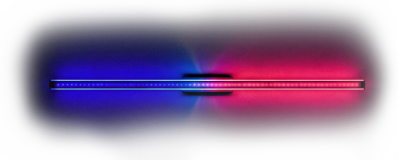
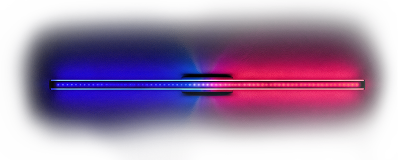
index fix

Changed region(s): [[0.1165, 0.5, 0.8738, 0.5312]]

diff --git a/index.html b/index.html
@@ -472,12 +472,9 @@
                     <li class="item-list__item gradient-border gradient-border--s2">
                         <a href="item-page.html" class="item-list__item-link">
                             <div class="item-list__item-mark-wrp">
-                                <div class="item-list__item-mark-item item-list__item-mark-item--black">
-                                    рекомендуємо
-                                </div>
-                                <!-- <div class="item-list__item-mark-item item-list__item-mark-item--white">
+                                <div class="item-list__item-mark-item item-list__item-mark-item--white">
                                     надійна
-                                </div> -->
+                                </div>
                             </div>
                             <div class="item-list__item-img img-wrp">
                                 <img src="imges/items/item-img.png" alt="main img">
@@ -497,20 +494,20 @@
                                         <img src="imges/items/icon-star.svg" alt="icon">
                                     </div>
                                     <div class="item-list__item-rating-star-icon img-wrp">
-                                        <img src="imges/items/icon-star.svg" alt="icon">
+                                        <img src="imges/items/icon-star-05.svg" alt="icon">
                                     </div>
                                 </div>
 
                                 <div class="item-list__item-rating-text">
                                     рейтинг
-                                    <span class="item-list__item-rating-num">5.0</span>
+                                    <span class="item-list__item-rating-num">4.5</span>
                                 </div>
                             </div>
 
                             <div class="item-list__item-title-wrp">
-                                <div class="item-list__item-icon img-wrp">
+                                <!-- <div class="item-list__item-icon img-wrp">
                                     <img src="imges/items/icon-ok.svg" alt="icon">
-                                </div>
+                                </div> -->
                                 <div class="item-list__item-title">Apelsin Studio</div>
                             </div>
 
@@ -557,14 +554,11 @@
                                     <div class="item-list__item-rating-star-icon img-wrp">
                                         <img src="imges/items/icon-star.svg" alt="icon">
                                     </div>
-                                    <div class="item-list__item-rating-star-icon img-wrp">
-                                        <img src="imges/items/icon-star.svg" alt="icon">
-                                    </div>
                                 </div>
 
                                 <div class="item-list__item-rating-text">
                                     рейтинг
-                                    <span class="item-list__item-rating-num">5.0</span>
+                                    <span class="item-list__item-rating-num">4.0</span>
                                 </div>
                             </div>
 

diff --git a/scss/pages/_home.scss b/scss/pages/_home.scss
@@ -8,7 +8,21 @@
     background-image: url('../../imges/fs-bg.png');
     background-position: center;
     background-size: contain;
-    background-repeat: repeat-x;
+    background-repeat: no-repeat;
+    position: relative;
+
+    // .fs-wrp::before
+    &::before {
+        content: '';
+        width: 1920px;
+        height: 360px;
+        position: absolute;
+        left: 50%;
+        transform: translate(-50%) rotate(-180deg);
+        top: 0;
+        background: linear-gradient(180deg, rgba(5, 7, 40, 0) 0%, #050728 100%);
+        z-index: 1;        
+    }
 }
 
 .fs {
@@ -17,6 +31,19 @@
     display: flex;
     flex-direction: column;
     align-items: center;
+
+    // .fs::after
+    &::after {
+        content: '';
+        width: 1920px;
+        height: 300px;
+        position: absolute;
+        left: 50%;
+        transform: translate(-50%);
+        bottom: -4px;
+        background: linear-gradient(0deg, #050728 0%, rgba(5, 7, 40, 0) 100%);
+        z-index: 2;
+    }
 
     // .fs__container
     &__container {
@@ -32,6 +59,7 @@
         justify-content: center;
         position: relative;
         // margin-bottom: 50px;
+        z-index: 2;
     }
 
     // .fs__title-h1
@@ -330,6 +358,8 @@
 
 .s1 {
     margin-bottom: 60px;
+    position: relative;
+    z-index: 2;
 
     // .s1__container
     &__container {
@@ -606,6 +636,7 @@
         top: -84px;
         left: 50%;
         transform: translateX(-50%);
+        mix-blend-mode: plus-lighter;
     }
 
     // .footer__main-logo
@@ -770,21 +801,22 @@
         height: 360px;
         bottom: -20px;
         z-index: -1;
+        overflow: hidden;
 
         // .footer__decoration--left
         &--left {
             left: -300px;
-            filter: blur(360px);
+            filter: blur(200px);
             background: var(--dop-1);
-            opacity: 0.2;
+            opacity: 0.25;
         }
 
         // .footer__decoration--right
         &--right {
             right: -300px;
-            filter: blur(360px);
+            filter: blur(200px);
             background: var(--dop-2);
-            opacity: 0.2;
+            opacity: 0.25;
         }
     }
 }

diff --git a/css/main.css b/css/main.css
@@ -522,6 +522,8 @@ a {
 .header {
   padding-top: 23px;
   padding-bottom: 40px;
+  position: relative;
+  z-index: 2;
 }
 .header__container {
   justify-content: space-between;
@@ -1261,7 +1263,19 @@ a {
   background-image: url("../../imges/fs-bg.png");
   background-position: center;
   background-size: contain;
-  background-repeat: repeat-x;
+  background-repeat: no-repeat;
+  position: relative;
+}
+.fs-wrp::before {
+  content: "";
+  width: 1920px;
+  height: 360px;
+  position: absolute;
+  left: 50%;
+  transform: translate(-50%) rotate(-180deg);
+  top: 0;
+  background: linear-gradient(180deg, rgba(5, 7, 40, 0) 0%, #050728 100%);
+  z-index: 1;
 }
 
 .fs {
@@ -1270,6 +1284,17 @@ a {
   display: flex;
   flex-direction: column;
   align-items: center;
+}
+.fs::after {
+  content: "";
+  width: 1920px;
+  height: 300px;
+  position: absolute;
+  left: 50%;
+  transform: translate(-50%);
+  bottom: -4px;
+  background: linear-gradient(0deg, #050728 0%, rgba(5, 7, 40, 0) 100%);
+  z-index: 2;
 }
 .fs__container {
   flex-wrap: wrap;
@@ -1281,6 +1306,7 @@ a {
   flex-wrap: wrap;
   justify-content: center;
   position: relative;
+  z-index: 2;
 }
 .fs__title-h1 {
   font-family: var(--second-family);
@@ -1511,6 +1537,8 @@ a {
 
 .s1 {
   margin-bottom: 60px;
+  position: relative;
+  z-index: 2;
 }
 .s1__container {
   flex-direction: column;
@@ -1718,6 +1746,7 @@ a {
   top: -84px;
   left: 50%;
   transform: translateX(-50%);
+  mix-blend-mode: plus-lighter;
 }
 .footer__main-menu {
   width: 100%;
@@ -1834,18 +1863,19 @@ a {
   height: 360px;
   bottom: -20px;
   z-index: -1;
+  overflow: hidden;
 }
 .footer__decoration--left {
   left: -300px;
-  filter: blur(360px);
+  filter: blur(200px);
   background: var(--dop-1);
-  opacity: 0.2;
+  opacity: 0.25;
 }
 .footer__decoration--right {
   right: -300px;
-  filter: blur(360px);
+  filter: blur(200px);
   background: var(--dop-2);
-  opacity: 0.2;
+  opacity: 0.25;
 }
 
 .header--item-page {

diff --git a/scss/components/_header.scss b/scss/components/_header.scss
@@ -2,6 +2,9 @@
     padding-top: 23px;
     padding-bottom: 40px;
 
+    position: relative;
+    z-index: 2;
+
     // .header__container
     &__container {
         justify-content: space-between;
